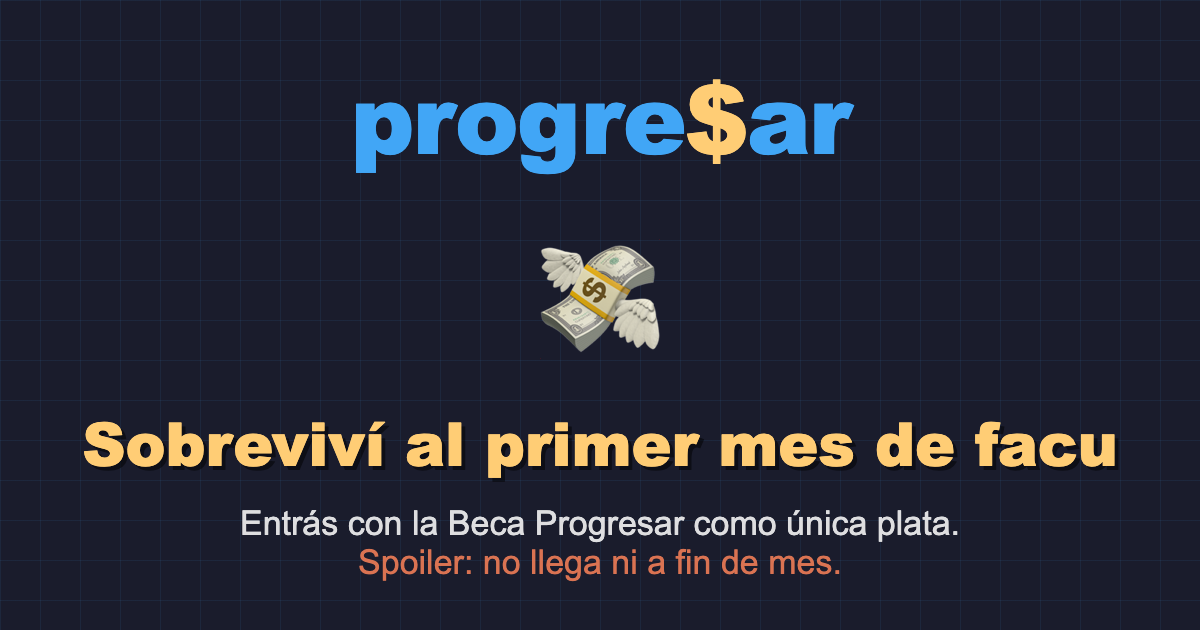
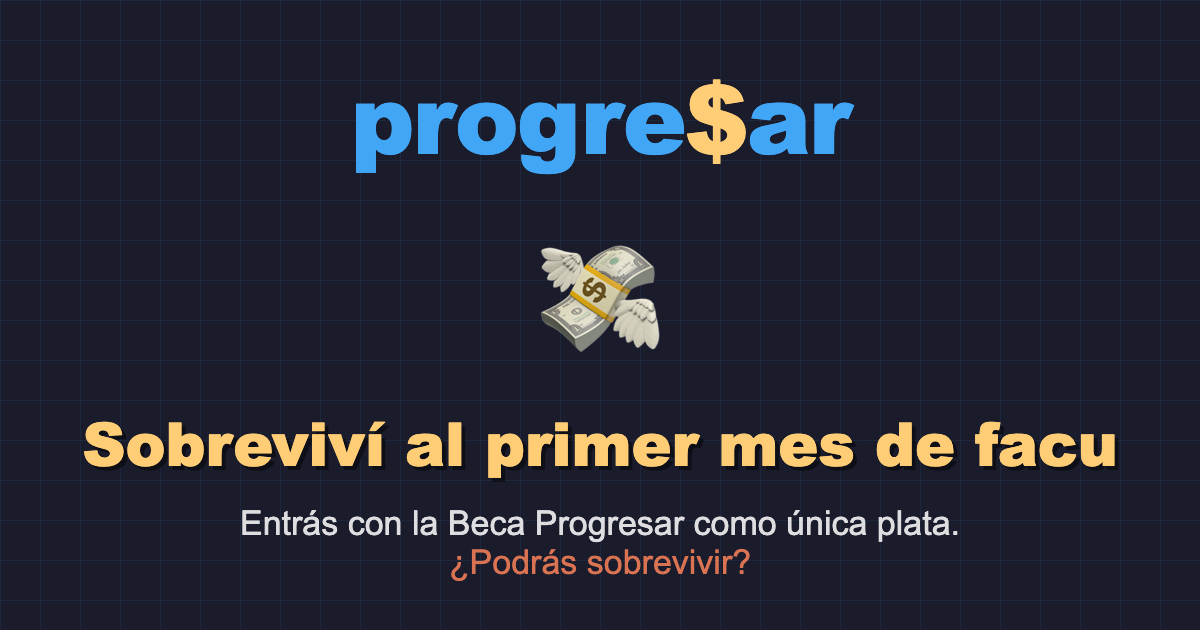
Ajustes: paro sorpresa, oferta de plata random, noticias en la leyenda, tabla comparativa
- Sacado el aviso de paro un día antes (ahora es sorpresa)
- Changa/crédito aparecen solo un día al azar (30% en toda la partida)
- Sacado el aviso 'no comiste / días sin comer' de la transición
- Sacado el ticker; los titulares del gobierno ahora van en la leyenda del día
- Comparador convertido en tabla 2015 vs 2026 (yerba, colectivo, almuerzos, fotocopias)
- 'Spoiler...' reemplazado por '¿Podrás sobrevivir?' (meta + imagen OG)

Changed region(s): [[0.2775, 0.8746, 0.7092, 0.9349]]

diff --git a/src/screens/Final.jsx b/src/screens/Final.jsx
@@ -10,6 +10,14 @@ import { vibrar } from '../game/haptics.js'
 
 const ENTERATE_URL = 'https://www.argentina.gob.ar/educacion/progresar'
 
+// Cuánto compraba la beca en 2015 vs 2026.
+const COMPARACION = [
+  { item: '🧉 Yerba', y2015: '36 kg', y2026: '6 kg' },
+  { item: '🚌 Colectivo', y2015: '300 viajes', y2026: '35 viajes' },
+  { item: '🍽 Almuerzos', y2015: '22', y2026: '5' },
+  { item: '📄 Fotocopias', y2015: '1.531', y2026: '350' },
+]
+
 // Pantalla de game over, dividida en dos pasos:
 //   1) el desenlace de TU partida (game over + stats)
 //   2) la bajada política (por qué pasa esto en serio)
@@ -103,17 +111,35 @@ export default function Final({ estado, dispatch }) {
               </p>
             </div>
 
-            {/* Comparador */}
-            <div className="w-full borde-pixel border-celeste/60 bg-noche/60 p-4 text-left">
-              <div className="font-pixel text-[11px] text-celeste/80 uppercase tracking-wide mb-2">
-                Con {pesos(BECA)} hoy comprás:
+            {/* Comparador 2015 vs 2026 */}
+            <div className="w-full borde-pixel border-celeste/60 bg-noche/60 p-4">
+              <div className="font-pixel text-[11px] text-celeste/80 uppercase tracking-wide mb-3 text-center">
+                Lo que compraba la beca
               </div>
-              <ul className="flex flex-col gap-1 text-[15px] text-blanco/90">
-                <li>🧉 6 kilos de yerba</li>
-                <li>🚌 unos 20 viajes de colectivo</li>
-                <li>📚 2 apuntes de la facu</li>
-                <li>🍔 ni un combo de McDonald’s</li>
-              </ul>
+              <table className="w-full border-collapse">
+                <thead>
+                  <tr className="font-pixel text-xs">
+                    <th className="text-oro py-1 border border-blanco/15">2015</th>
+                    <th className="text-blanco/60 py-1 border border-blanco/15" />
+                    <th className="text-naranja py-1 border border-blanco/15">2026</th>
+                  </tr>
+                </thead>
+                <tbody>
+                  {COMPARACION.map((f) => (
+                    <tr key={f.item} className="text-sm">
+                      <td className="font-pixel text-oro tabular-nums text-center py-1.5 border border-blanco/15">
+                        {f.y2015}
+                      </td>
+                      <td className="text-blanco/90 text-center py-1.5 border border-blanco/15">
+                        {f.item}
+                      </td>
+                      <td className="font-pixel text-naranja tabular-nums text-center py-1.5 border border-blanco/15">
+                        {f.y2026}
+                      </td>
+                    </tr>
+                  ))}
+                </tbody>
+              </table>
             </div>
 
             <div className="flex flex-wrap items-center justify-center gap-3">

diff --git a/src/game/state.js b/src/game/state.js
@@ -50,6 +50,7 @@ export const estadoInicial = {
   ultimoMovimiento: { monto: 0, id: 0 }, // para animar la plata volando
   motivoFinal: null,
   paroDia: null,
+  diaOfertaPlata: null, // día en que aparece changa/crédito (o null)
   dia: diaLimpio(),
   transicion: null,
 }
@@ -58,6 +59,14 @@ export const estadoInicial = {
 function sortearParo() {
   if (Math.random() >= 0.4) return null
   return Math.random() < 0.5 ? 1 : 2
+}
+
+// 30% de las partidas: la opción de changa/crédito aparece un día al azar
+// (evitando el día de paro).
+function sortearOfertaPlata(paroDia) {
+  if (Math.random() >= 0.3) return null
+  const dias = [0, 1, 2, 3, 4].filter((d) => d !== paroDia)
+  return dias[Math.floor(Math.random() * dias.length)]
 }
 
 export function disponible(estado) {
@@ -90,7 +99,14 @@ function ganarMov(estado, monto) {
 }
 
 function nuevaPartida(carreraId) {
-  return { ...estadoInicial, pantalla: 'juego', carreraId, paroDia: sortearParo() }
+  const paroDia = sortearParo()
+  return {
+    ...estadoInicial,
+    pantalla: 'juego',
+    carreraId,
+    paroDia,
+    diaOfertaPlata: sortearOfertaPlata(paroDia),
+  }
 }
 
 // Override de motivo: si changuearon mucho y estudiaron poco, dejaron la facu.
@@ -286,13 +302,11 @@ export function reducer(estado, accion) {
           siguiente: DIAS[siguiente].nombre,
           numeroSiguiente: siguiente + 1,
           cierre: esParoHoy
-            ? 'Hoy no hubo clases por el paro.'
-            : mensajeCierre({ estudio, comio, materia }),
-          comio: esParoHoy ? true : comio,
+            ? `Hoy no hubo clases por el paro. ${noticiaAlAzar()}`
+            : mensajeCierre({ estudio, comio, materia, noticia: noticiaAlAzar() }),
           boleto,
           compras,
           totalGastado,
-          noticia: noticiaAlAzar(),
         },
       }
     }

diff --git a/src/game/noticias.js b/src/game/noticias.js
@@ -1,19 +1,18 @@
-// Titulares bizarros de la "cadena oficialista" que pasan en el ticker al
-// terminar el día. Tono simpatizante del gobierno (violeta).
+// Titulares bizarros del gobierno que se cuelan en la leyenda de cierre del día.
+// Redactados para leerse bien en el medio de un párrafo.
 export const NOTICIAS = [
+  'El gobierno cerró la facultad de Medicina pero abrió un casino online.',
   'El ministro de Economía inauguró una heladería en Palermo.',
   'Milei viajó a Estados Unidos a una fiesta de disfraces.',
   'Milei clonó a su perro y lo llamó Superávit.',
-  'Vocero oficial: “La universidad es un privilegio, no un derecho”.',
-  'El Presidente felicitó a un influencer por bancar el ajuste.',
-  'El dólar bajó 2 pesos y lo anunciaron 40 minutos en cadena nacional.',
-  'Recortaron el comedor universitario pero regalaron gorras.',
+  'El gobierno recortó el comedor universitario pero regaló gorras.',
+  'El vocero aclaró que la universidad es un privilegio, no un derecho.',
   'Milei tuiteó 47 veces entre las 3 y las 5 de la mañana.',
-  'El ministro dijo que si no te alcanza la beca, “que emprendas”.',
-  'Cerraron una facultad pero abrieron un casino online.',
-  'El asesor estrella recomendó “comer menos y trabajar más”.',
-  'Nuevo récord: la motosierra fue tapa de una revista extranjera.',
-  'Oficial: “El que quiere estudiar, que se pague un profesor particular”.',
+  'El ministro recomendó que si no te alcanza la beca, emprendas.',
+  'El dólar bajó 2 pesos y lo anunciaron 40 minutos en cadena nacional.',
+  'Un asesor estrella sugirió comer menos y trabajar más.',
+  'El gobierno cerró un instituto pero abrió una casa de apuestas deportivas.',
+  'Milei felicitó a un influencer por bancar el ajuste.',
 ]
 
 export function noticiaAlAzar() {

diff --git a/src/game/mensajes.js b/src/game/mensajes.js
@@ -1,18 +1,19 @@
 import { pesos } from './config.js'
 
 // Mensaje de cierre del día, según si estudiaste (compraste el cuadernillo) y si
-// comiste ese día. Se muestra en la pantalla de transición.
-export function mensajeCierre({ estudio, comio, materia }) {
+// comiste ese día. Se le cuela un titular bizarro del gobierno en el medio.
+export function mensajeCierre({ estudio, comio, materia, noticia }) {
+  const n = noticia ? ` ${noticia}` : ''
   if (estudio && comio) {
-    return 'Cursaste, entendiste algo y hasta comiste. Un lujo que con esta beca no vas a poder repetir muchas veces.'
+    return `Cursaste, entendiste algo y hasta comiste.${n} Un lujo que con esta beca no vas a poder repetir muchas veces.`
   }
   if (estudio && !comio) {
-    return 'Te sabés de memoria los capítulos 1, 2 y 3, pero no podés ni caminar del hambre. Mañana será un nuevo día…'
+    return `Te sabés de memoria los capítulos 1, 2 y 3, pero no podés ni caminar del hambre.${n} Mañana será un nuevo día…`
   }
   if (!estudio && comio) {
-    return 'Pegaste buena onda con el del comedor y te recomendó un par de cátedras. No leíste los capítulos del cuadernillo y te pasás toda la clase mirando la serie de Moria.'
+    return `Pegaste buena onda con el del comedor y te recomendó un par de cátedras. No leíste el cuadernillo y te la pasás mirando la serie de Moria.${n}`
   }
-  return `Te dormís en ${materia}. Un compañero te da un mate y revivís. No tenés ni una lapicera en la mano y el profesor ya te tomó de punto.`
+  return `Te dormís en ${materia}. Un compañero te da un mate y revivís.${n} No tenés ni una lapicera y el profesor ya te tomó de punto.`
 }
 
 // Remates por carrera para el final "sin plata" (el del boleto). Rotan al azar.

diff --git a/src/components/Transicion.jsx b/src/components/Transicion.jsx
@@ -1,11 +1,10 @@
 import { motion } from 'framer-motion'
 import BotonPixel from './BotonPixel.jsx'
-import Ticker from './Ticker.jsx'
 import { pesos } from '../game/config.js'
 
-// Interstitial entre días: cierre, resumen de compras, SUBE, contador grande y
-// el ticker de noticias oficialista.
-export default function Transicion({ transicion, diasSinComer, onContinuar }) {
+// Interstitial entre días: leyenda de cierre, resumen de compras, SUBE y el
+// contador grande del día siguiente.
+export default function Transicion({ transicion, onContinuar }) {
   const { compras = [], totalGastado = 0 } = transicion
 
   return (
@@ -49,20 +48,9 @@ export default function Transicion({ transicion, diasSinComer, onContinuar }) {
           )}
         </div>
 
-        {!transicion.comio && (
-          <p className="font-pixel text-sm text-naranja leading-relaxed">
-            ⚠ Hoy no comiste. Llevás {diasSinComer}{' '}
-            {diasSinComer === 1 ? 'día' : 'días'} sin comer.
-          </p>
-        )}
-
-        {transicion.boleto > 0 ? (
+        {transicion.boleto > 0 && (
           <div className="text-base text-celeste">
             🚌 Pagaste {pesos(transicion.boleto)} de SUBE para llegar mañana.
-          </div>
-        ) : (
-          <div className="text-base text-naranja">
-            🚫 Mañana hay paro: no viajás, no gastás SUBE.
           </div>
         )}
 
@@ -73,8 +61,6 @@ export default function Transicion({ transicion, diasSinComer, onContinuar }) {
             {transicion.siguiente}
           </div>
         </div>
-
-        <Ticker noticia={transicion.noticia} />
 
         <BotonPixel variante="primario" onClick={onContinuar}>
           ▶ Seguir

diff --git a/index.html b/index.html
@@ -6,7 +6,7 @@
     <title>Progresar — Sobreviví al primer mes de facu</title>
     <meta
       name="description"
-      content="Un juego sobre lo que dura la Beca Progresar. Spoiler: no llega ni a fin de mes."
+      content="Un juego sobre lo que dura la Beca Progresar. ¿Podrás sobrevivir al primer mes?"
     />
 
     <!-- Favicon emoji -->
@@ -20,7 +20,7 @@
     <meta property="og:title" content="Progresar — Sobreviví al primer mes de facu" />
     <meta
       property="og:description"
-      content="Entrás a la facu con la Beca Progresar como única plata. Spoiler: no llega ni a fin de mes."
+      content="Entrás a la facu con la Beca Progresar como única plata. ¿Podrás sobrevivir al primer mes?"
     />
     <meta property="og:image" content="/og.png" />
     <meta property="og:image:width" content="1200" />
@@ -29,7 +29,7 @@
     <meta name="twitter:title" content="Progresar — Sobreviví al primer mes de facu" />
     <meta
       name="twitter:description"
-      content="Un juego sobre lo que dura la Beca Progresar. Spoiler: no llega ni a fin de mes."
+      content="Un juego sobre lo que dura la Beca Progresar. ¿Podrás sobrevivir al primer mes?"
     />
     <meta name="twitter:image" content="/og.png" />
     <link rel="preconnect" href="https://fonts.googleapis.com" />

diff --git a/src/screens/Juego.jsx b/src/screens/Juego.jsx
@@ -220,7 +220,8 @@ export default function Juego({ estado, dispatch }) {
           </motion.div>
         </AnimatePresence>
 
-        {/* Changas y crédito */}
+        {/* Changas y crédito (solo aparece un día al azar en la partida) */}
+        {estado.diaOfertaPlata === estado.diaIndex && (
         <div className="borde-pixel border-blanco/40 bg-noche/50 p-3 flex flex-col gap-2">
           <div className="font-pixel text-[11px] text-celeste/80 uppercase tracking-wide">
             🤝 ¿Necesitás plata?
@@ -258,6 +259,7 @@ export default function Juego({ estado, dispatch }) {
             </p>
           )}
         </div>
+        )}
 
         {/* Navegación entre momentos / fin de día */}
         <div className="flex items-center gap-2 pt-1">
